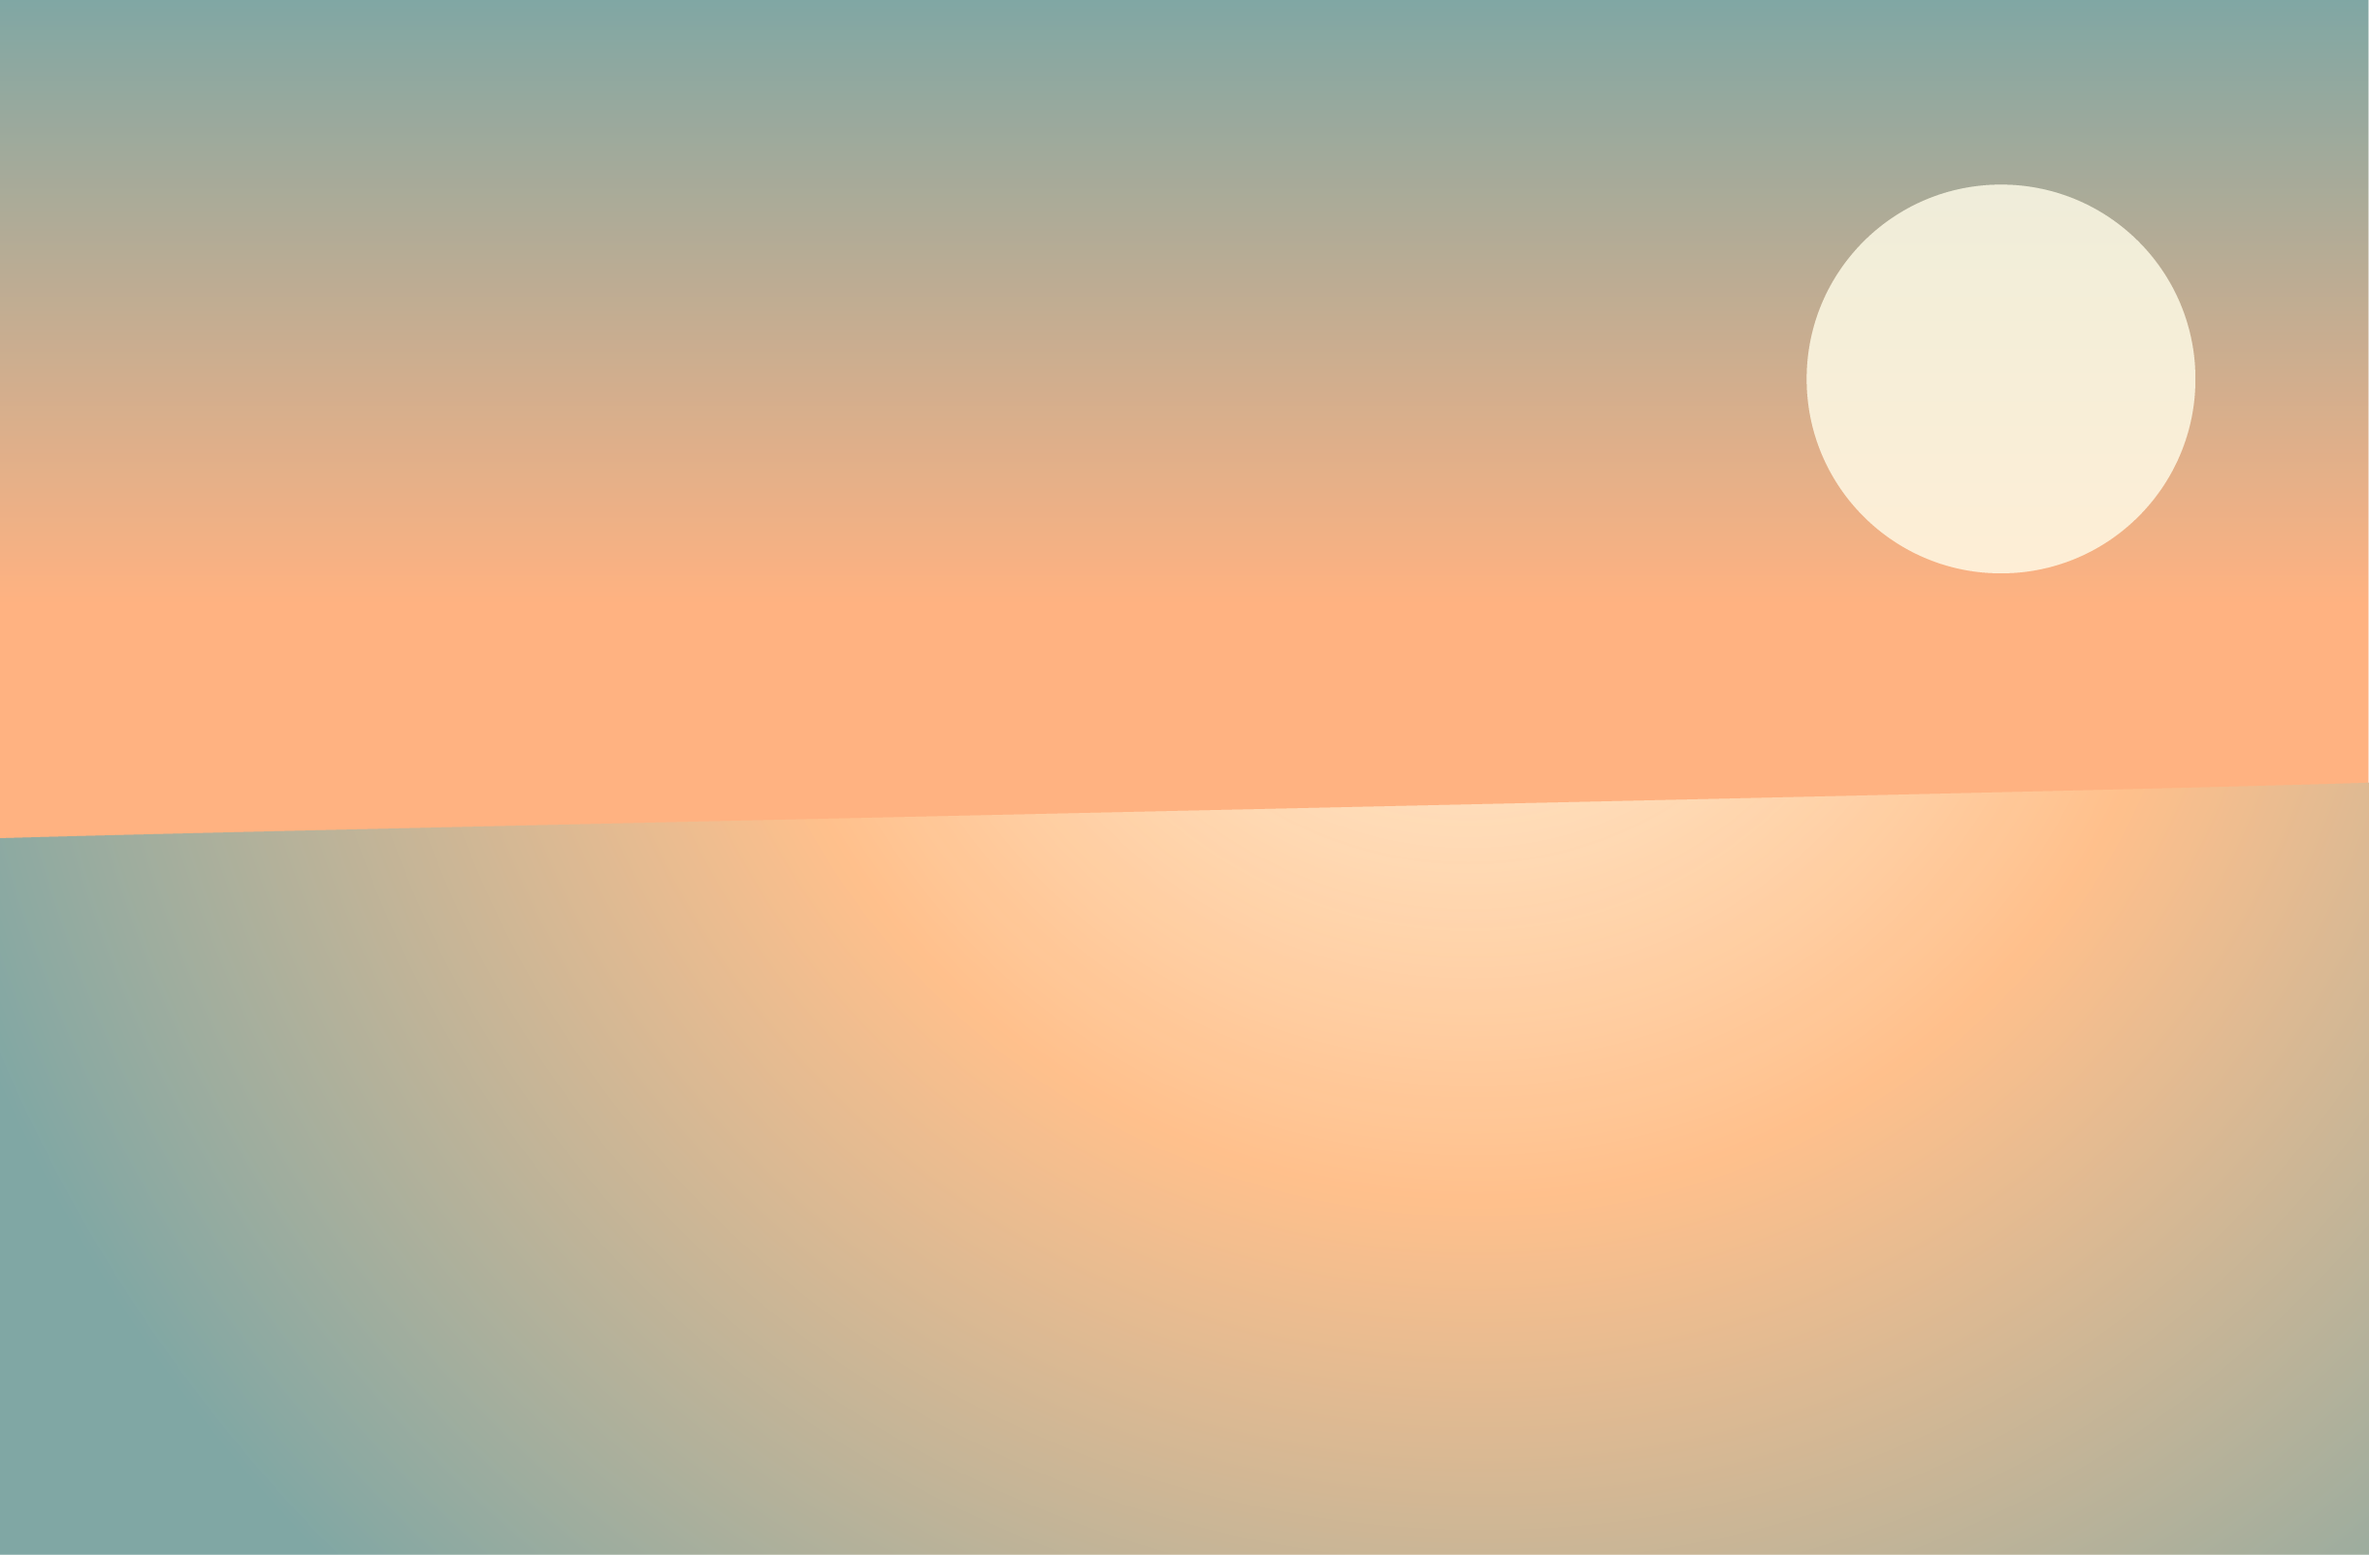
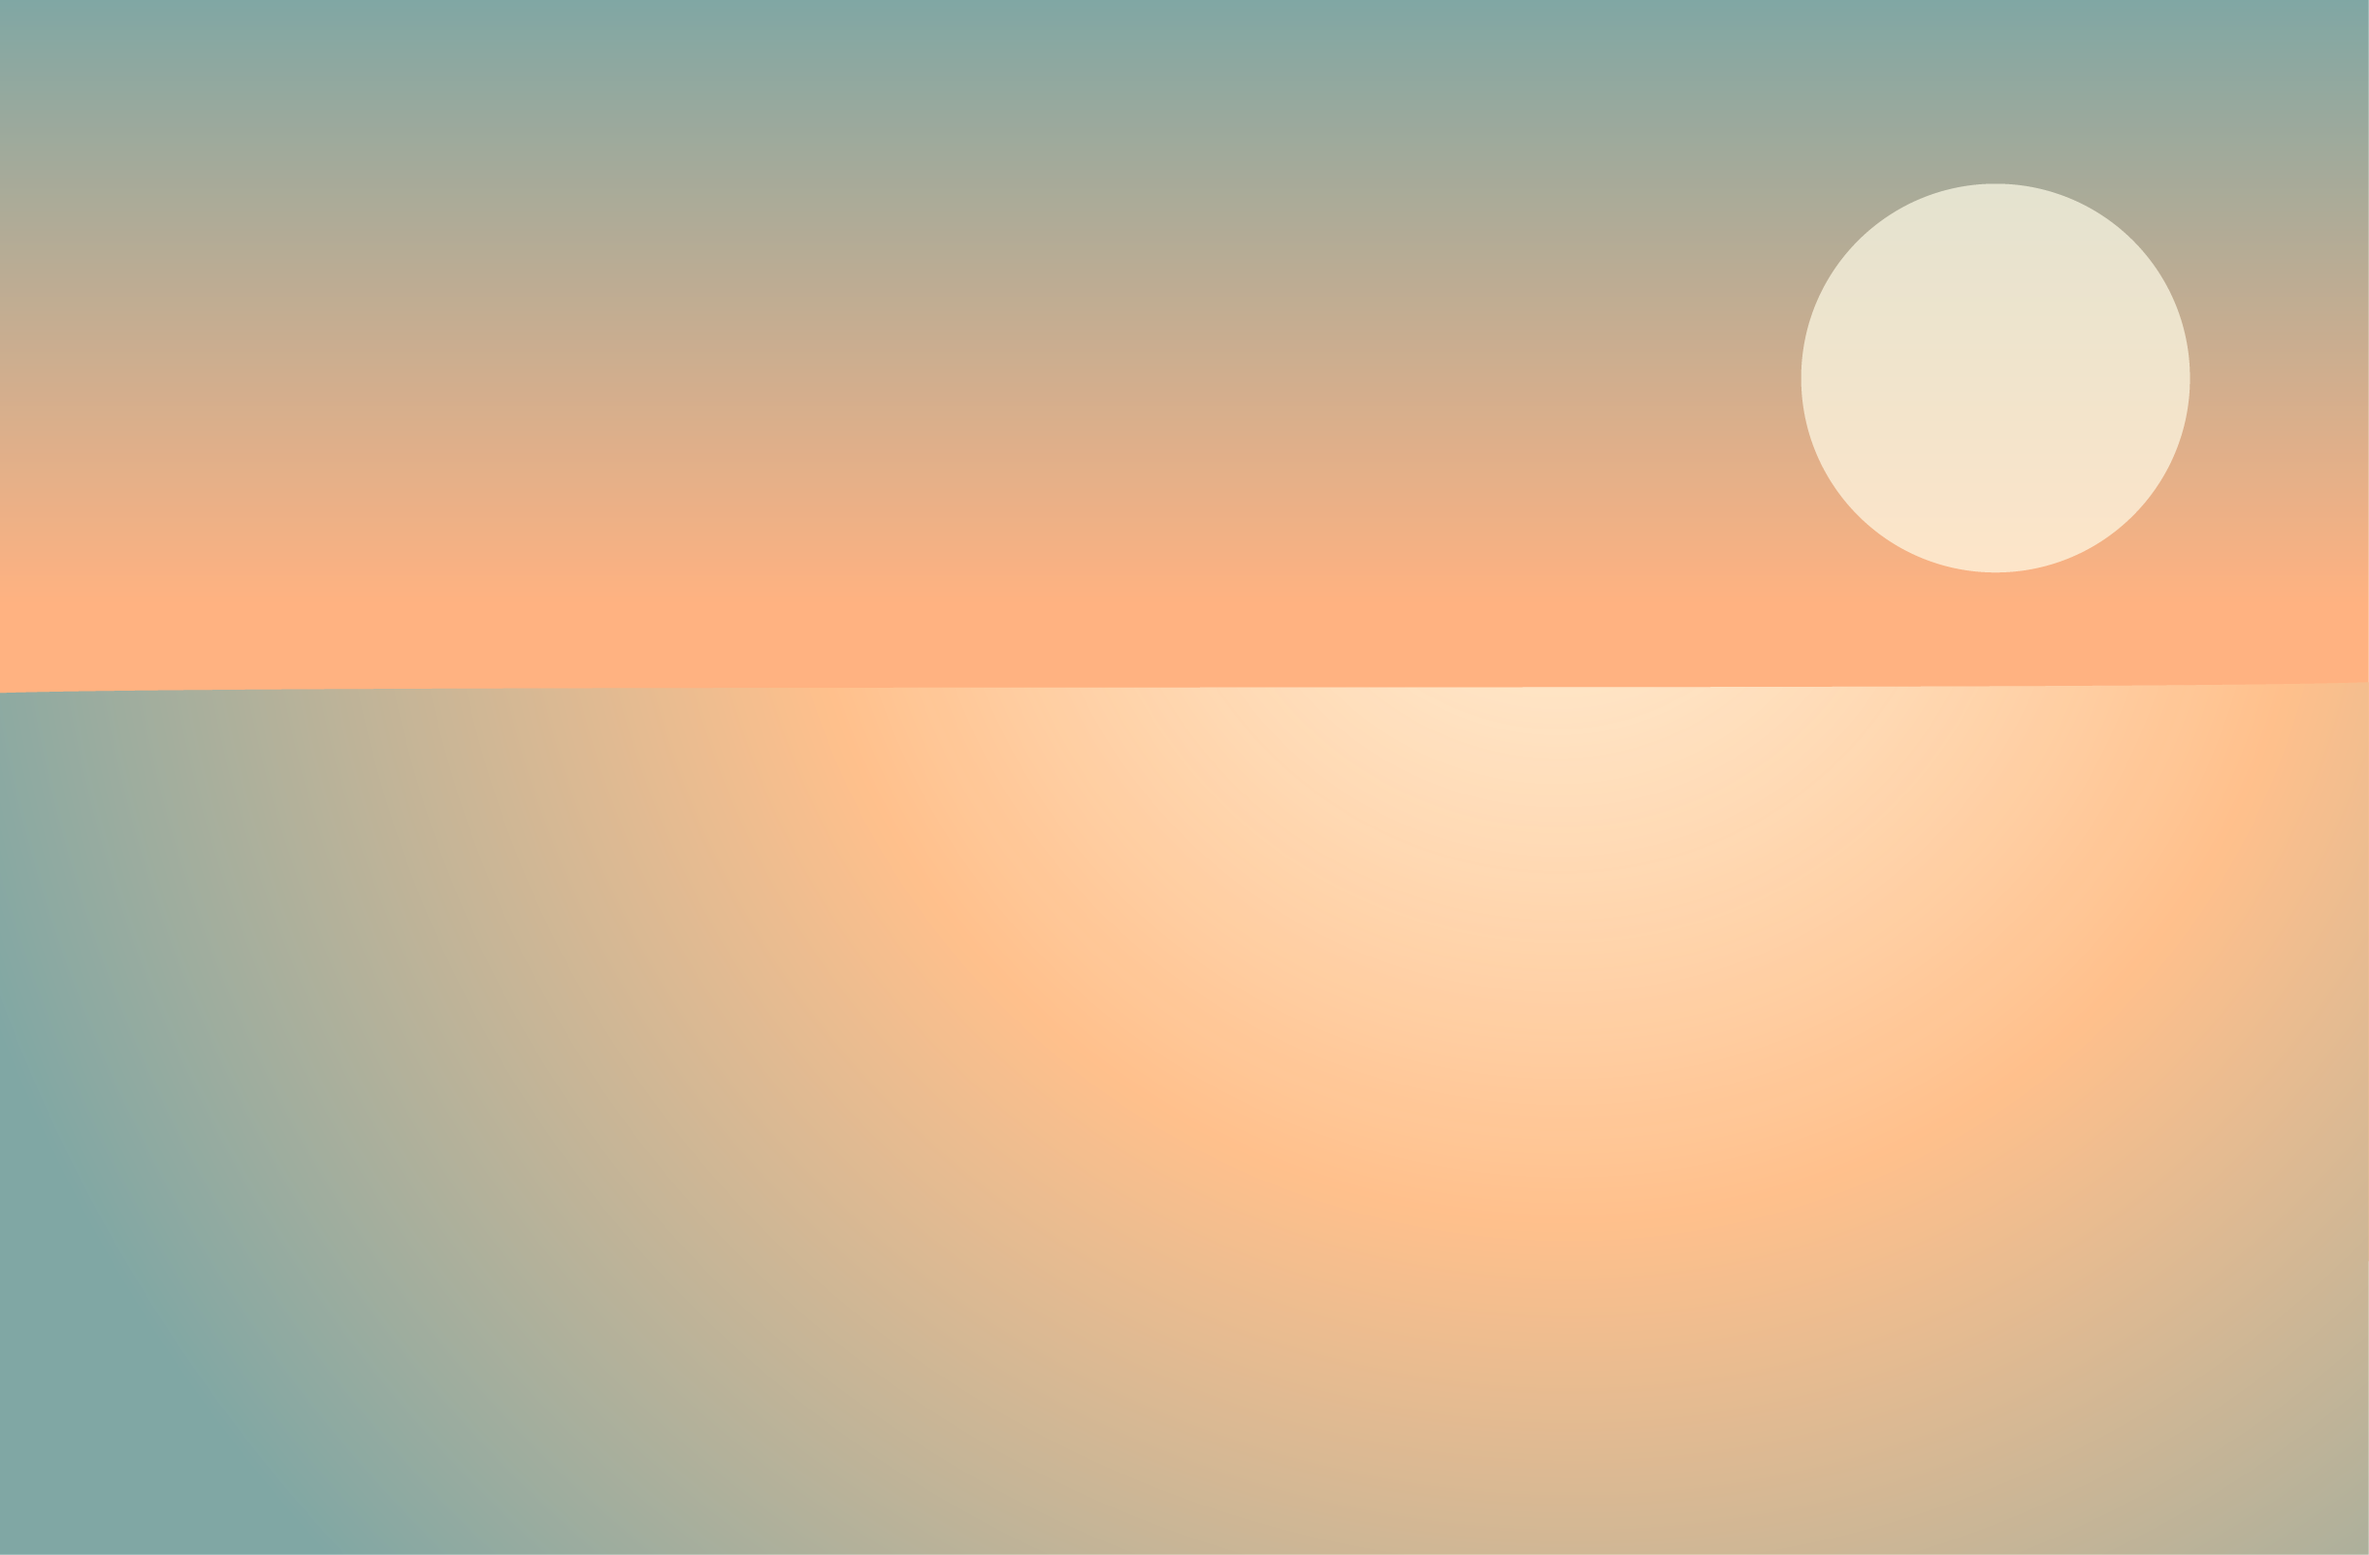
layout changes

Changed region(s): [[0.4046, 0.4367, 0.9337, 0.5303], [0.0, 0.4367, 0.3112, 0.5614]]

diff --git a/src/containers/App.jsx b/src/containers/App.jsx
@@ -36,7 +36,7 @@ function App() {
 
                         <ParallaxLayer offset={0} speed={0.25}>
                             <div className='container-unfold'>
-                                <h1 className='text-unfold'>Scroll to unfold..</h1>
+                                <h1 className='text-unfold'>.. scroll down to read on</h1>
                             </div>
                         </ParallaxLayer>
 
@@ -56,27 +56,31 @@ function App() {
                             <div className='animation_layer parallax' id='mountain4'></div>
                         </ParallaxLayer>
 
-                        <ParallaxLayer offset={0} speed={0.42}>
+                        <ParallaxLayer offset={0} speed={0.41}>
                             <div className='animation_layer parallax' id='mountain3'></div>
                         </ParallaxLayer>
 
-                        <ParallaxLayer offset={0} speed={0.44}>
+                        <ParallaxLayer offset={0} speed={0.43}>
                             <div className='animation_layer parallax' id='mountain2'></div>
                         </ParallaxLayer>
 
-                        <ParallaxLayer offset={0} speed={0.47}>
-                            <div className='animation_layer parallax' id='mountain1'></div>
+                        <ParallaxLayer offset={0} speed={0.45}>
+                            <div className='animation_layer parallax' id='cliffs'></div>
                         </ParallaxLayer>
 
-                        <ParallaxLayer offset={0} speed={0.62}>
+                        <ParallaxLayer offset={0} speed={0.54}>
                             <div className='animation_layer parallax' id='trees'></div>
                         </ParallaxLayer>
 
-                        <ParallaxLayer offset={0} speed={0.68}>
-                            <div className='animation_layer parallax' id='land'></div>
+                        <ParallaxLayer offset={0} speed={0.59}>
+                            <div className='animation_layer parallax' id='land2'></div>
                         </ParallaxLayer>
 
-                        <ParallaxLayer offset={0} speed={0.72}>
+                        <ParallaxLayer offset={0} speed={0.67}>
+                            <div className='animation_layer parallax' id='land1'></div>
+                        </ParallaxLayer>
+
+                        <ParallaxLayer offset={0} speed={0.73}>
                             <div className='animation_layer parallax' id='rocks'></div>
                         </ParallaxLayer>
 

diff --git a/src/components/Intro/Intro.jsx b/src/components/Intro/Intro.jsx
@@ -8,13 +8,16 @@ function Intro() {
             <div>
                 <div>
                     <div className='container-header1'>
-                        <h1 className='text-header1'>Hi there, my name is Suzanne.</h1>
-                    </div>
+                        <h1 className='text-header1'>Hello there,</h1>
+                        </div>
                     <div className='container-header2'>
-                       <h1 className='text-header2'>How lovely that you found my page.</h1>
+                        <h1 className='text-header2'>my name is Suzanne.</h1>
                     </div>
-                    <br />
-                        <p>As a self-taught web designer and full-stack developer i thoroughly enjoy creating colourful and visually rich, yet simple and user-friendly web experiences.</p>
+                    {/* <div className='container-header3'>
+                       <h2 className='text-header3'>How lovely that you found my page.</h2>
+                    </div> */}
+                    {/* <br /> */}
+                        <p>As a self-taught designer and full-stack web developer i thoroughly enjoy creating colourful and visually rich, yet simple and user-friendly web experiences.</p>
                          <p>While I’m still early in my professional journey, I bring a strong foundation in React, a sharp eye for design and detail, and a huge enthusiasm for building thoughtful digital experiences.</p>
                          <p>I am motivated by using technology and design with intention — to serve a purpose and make a connection with you, the viewer.</p>
                          <p>On this page, you will find what i have been up to so far.</p>

diff --git a/src/containers/App.css b/src/containers/App.css
@@ -131,7 +131,7 @@ body {
   
   #background {
     background-image: url(/images/parallax/final-background-02.png);
-    height: 118vh; /* Set custom height */
+    height: 125vh; /* Set custom height */
     position: absolute; /* Use absolute instead of fixed */
     top: 0;
     z-index: 0;
@@ -142,7 +142,7 @@ body {
   }
 
   #clouds {
-    background-image: url(/images/parallax/clouds-n-birds.png);
+    background-image: url(/images/parallax/clouds.png);
   }
   
   #mountain6 {
@@ -163,24 +163,30 @@ body {
   
   #mountain2 {
     background-image: url(/images/parallax/mountain-2.png);
+    bottom: -5.1vh;
   }
   
-  #mountain1 {
-    background-image: url(/images/parallax/mountain-1.png);
-    bottom: -1vh;
+  #cliffs {
+    background-image: url(/images/parallax/cliffs.png);
+    bottom: -40vh;
   }
   
   #trees {
     background-image: url(/images/parallax/trees.png);
-    bottom: -38vh;
+    bottom: -40vh;
   }
 
-  #land {
-    background-image: url(/images/parallax/land-n-cliffs.png);
-    bottom: -90svh;
+  #land2 {
+    background-image: url(/images/parallax/land-2.png);
+    bottom: -91vh;
+  }
+
+  #land1 {
+    background-image: url(/images/parallax/land-1.png);
+    bottom: -97vh;
   }
 
   #rocks {
     background-image: url(/images/parallax/rocks-front.png);
-    bottom: -58vh;
+    bottom: -71vh;
   }

diff --git a/src/components/Intro/Intro.css b/src/components/Intro/Intro.css
@@ -1,18 +1,26 @@
-/* .container-header1 {
-    text-align: left;
-    padding-left: 250px;
-    padding-top: 200px;
+.container-header1 {
+    position: relative;
+    left: -220px;
+    top: -45px;
     z-index: 10;
-  } */
+  }
 
-  /* .container-header2 {
-    text-align: left;
-    padding-left: 300px;
-    padding-top: 250px;
+
+  .container-header2 {
+    position: relative;
+    left: 50px;
+    top: -65px;
     z-index: 10;
-  } */
+  }
 
-  @keyframes fadeIn {
+  .container-header3 {
+    position: relative;
+    z-index: 10;
+  }
+
+  
+
+  /* @keyframes fadeIn {
     0% {
       opacity: 0;
       transform: translateY(-20px);
@@ -23,22 +31,22 @@
       transform: translateY(0);
       visibility: visible;
     }
-  }
+  } */
   
-  .text-header1 {
+  /* .text-header1 {
     font-family: 'Red Hat Display Light', Helvetica, Arial, sans-serif;
     opacity: 0;
     visibility: hidden;
     display: inline-block;
     animation: fadeIn 5s ease forwards;
     animation-delay: 0.4s;
-  }
+  } */
   
-  .text-header2 {
+  /* .text-header2 {
     font-family: 'Red Hat Display Light', Helvetica, Arial, sans-serif;
     opacity: 0;
     visibility: hidden;
     display: inline-block;
     animation: fadeIn 5s ease forwards;
     animation-delay: 2s;
-  }
+  } */

diff --git a/src/components/About/About.jsx b/src/components/About/About.jsx
@@ -9,13 +9,13 @@ function About() {
             <div className='container'>
                 <div className='introduction'>
                     <h1>A bit about me... </h1>
-                        <p>Bepakt en bezakt met een onuitputtelijke nieuwsgierigheid kenmerkt m'n loopbaan zich voortdurend willen uitbreiden van m'n vaardigheden. </p>
+                        <p>... </p>
                         <br />
                         <p>
-                        Uitgerust met de kennis vanuit mijn studie om adoptie te vergroten t.o.v. ehealth heb ikjaren  gewijdt aan het bouwen van content en het vormgeven van een grote verscheidenheid aan visuals. 
+                        ...
                         </p>
                         <br />
-                        <p>.. opleiding full-stack development</p>
+                        <p>...</p>
                         <br />
                         <h1>Just for fun </h1>
                         <p>...</p>

diff --git a/src/components/Tools/Tools.jsx b/src/components/Tools/Tools.jsx
@@ -18,7 +18,7 @@ import nodejs from '/images/logos/node-logo.svg';
 function Tools() {
     return (
         <>
-                <h1>.. made with my preferred technologies</h1>
+                <h1>.. curated with my preferred tools</h1>
                 <br/>
 
 
